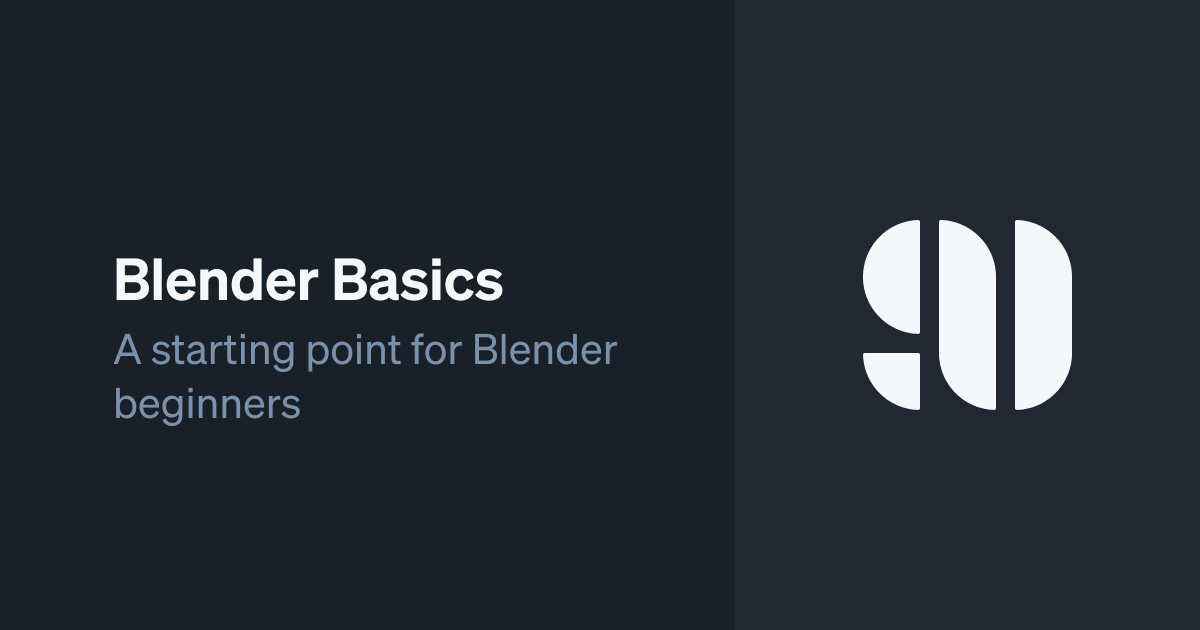
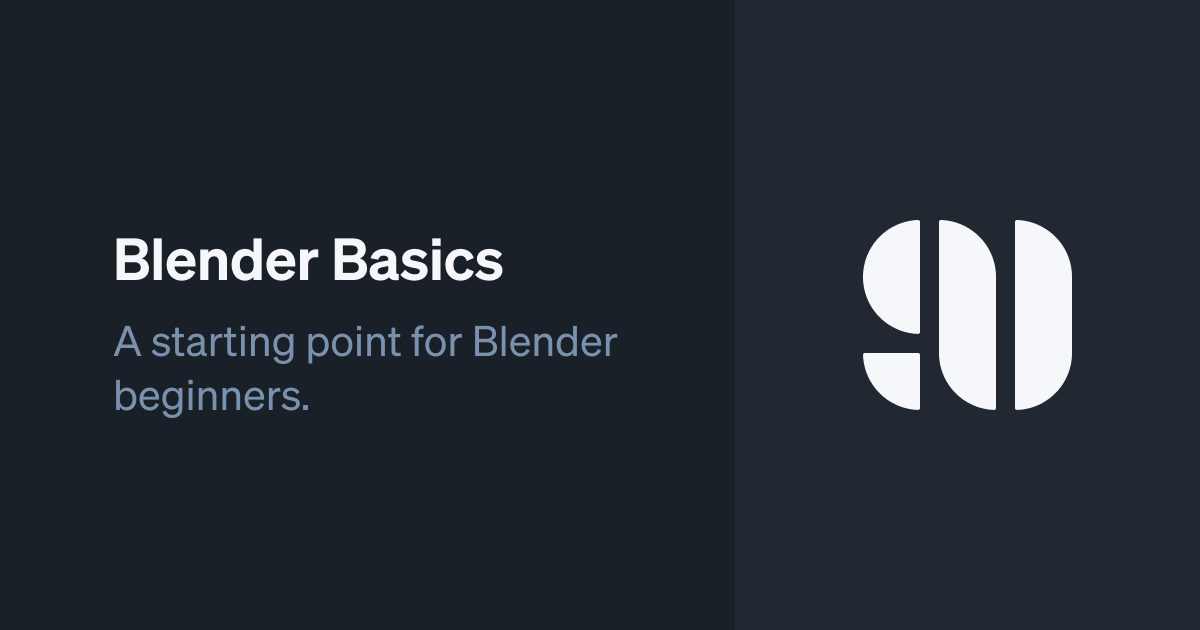
edited text

Changed region(s): [[0.0925, 0.5127, 0.5242, 0.6937], [0.0925, 0.3619, 0.4317, 0.4825]]

diff --git a/src/pages/posts/blenderbasics.js b/src/pages/posts/blenderbasics.js
@@ -23,13 +23,13 @@ const BlenderBasics = props => (
     />
     <p>
       Blender is a powerful,{" "}
-      <a href="https://github.com/blender">open source</a> 3D creation tool with
-      a daunting amount of{" "}
-      <a href="https://docs.blender.org/manual/en/latest/">documentation</a>.
-      While the comprehensive docs are wonderful, there is a <em>lot</em> of
-      noise to sift through if you are new to the software. This page is
-      intended to be an ongoing list of the tips and tricks that I find
-      valuable.
+      <a href="https://github.com/blender">open source</a> 3D creation tool.
+      While the comprehensive{" "}
+      <a href="https://docs.blender.org/manual/en/latest/">docs</a> are
+      wonderful, figuring out where to begin can be a challenge if you are new
+      to the software. This page is intended to be an ongoing list of Blender
+      wrangling tips that I find valuable, written from the perspective of
+      someone who sifted through the noise so you don't have to.
     </p>
 
     <h2>General</h2>
@@ -50,8 +50,8 @@ const BlenderBasics = props => (
       <li>
         Hover over a corner of an editor section and your cursor will display as
         a +. Click and drag to split the section into two and select the
-        dropdown icon in the upper left of any section to chose the editor type.
-        Blender's UI is customizable to your liking.
+        dropdown icon in the upper left of any section to choose the editor
+        type. Blender's UI is customizable to your liking.
       </li>
     </ul>
 
@@ -125,10 +125,6 @@ const BlenderBasics = props => (
         from origin) or smaller (mouse towards origin).
       </li>
       <li>
-        <code>e</code> for extrude - in Edit mode, extrude selected vertices,
-        edges, or faces.
-      </li>
-      <li>
         Holding <code>shift</code> while performing a transform will allow for
         fine adjustments.
       </li>
@@ -198,7 +194,7 @@ const BlenderBasics = props => (
         <ul>
           <li>
             Prevent smoothing over edges above a chosen angle by toggling{" "}
-            <code>auto smooth</code> in Properties panel → Normals tab → Normals
+            <code>Auto Smooth</code> in Properties panel → Normals tab → Normals
             → Auto Smooth. This is helpful when you are working with a shape
             that needs both curves and hard edges.
           </li>
@@ -233,8 +229,8 @@ const BlenderBasics = props => (
     <p>
       All Modifier Properties are found in the Modifier Properties tab of the
       Properties panel. Below are the general modifiers that I find most helpful
-      for modeling. Experiment by applying them to default meshes to learn the
-      ins and outs of each modifier.
+      for basic modeling. Experiment by applying them to default meshes to learn
+      the ins and outs of each modifier.
       <br></br>
       <br></br>
     </p>
@@ -249,11 +245,11 @@ const BlenderBasics = props => (
         <code>Bevel</code> - used to bevel edges of the selected object.
         <ul>
           <li>
-            Bevel Limit Method - a tool to limit what edges are beveled.{" "}
+            Bevel Limit Method - a helpful tool to limit what edges are beveled.{" "}
             <code>Angle</code> is useful to limit beveling to only sharp edges
             (defined by a degree input). <code>Weight</code> will let you bevel
             only selected edges by weight. Weight is assigned to edges in edit
-            mode in Transform panel → Edge Data.
+            mode in the transform panel under &quot;Edge Data.&quot;
           </li>
         </ul>
       </li>
@@ -262,7 +258,8 @@ const BlenderBasics = props => (
         selected object. Great for creating curved surfaces from angled meshes.
         <ul>
           <li>
-            Assign creases to edges in edit mode in Transform panel → Edge Data.
+            Assign creases to edges in edit mode in the transform panel under
+            &quot;Edge Data.&quot;
           </li>
         </ul>
       </li>
@@ -279,7 +276,7 @@ const BlenderBasics = props => (
         <a href="https://www.sketch.com">Sketch</a> and{" "}
         <a href="https://www.figma.com">Figma</a>, you may have used the Boolean
         Operation tool. Blender has a similar <code>Boolean</code> operation
-        modifier but I would recommend trying to avoid it when you are first
+        modifier, but I would recommend trying to avoid it when you are first
         starting. It has a tendency to create messy geometry in your meshes and
         screw things up when used in combo with a Subdivision modifier.
       </li>
@@ -310,10 +307,9 @@ const BlenderBasics = props => (
     <h2>Concluding Thoughts</h2>
 
     <p>
-      Start off small. Don't jump right into creating involved models and
-      complex shading trees. The learning curve for Blender can be steep, but
-      getting these core basics nailed down will help make the experience
-      enjoyable.{" "}
+      Start small. Don't jump right into creating involved models and complex
+      shading trees. The learning curve for Blender can be steep, but getting
+      these core basics nailed down will help make the experience enjoyable.{" "}
     </p>
   </PostWrapper>
 )

diff --git a/src/pages/index.js b/src/pages/index.js
@@ -68,7 +68,7 @@ const IndexPage = props => {
         <PostGrid>
           <Post
             title="Blender Basics"
-            subtitle="A starting point for Blender beginners."
+            subtitle="A starting point for Blender beginners from a former beginner."
             time="Published January 21, 2021"
             slug="blenderbasics"
           />
